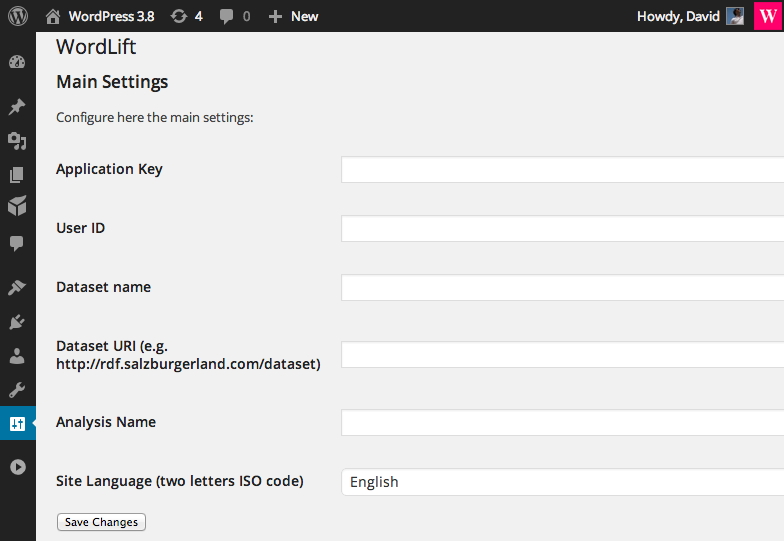
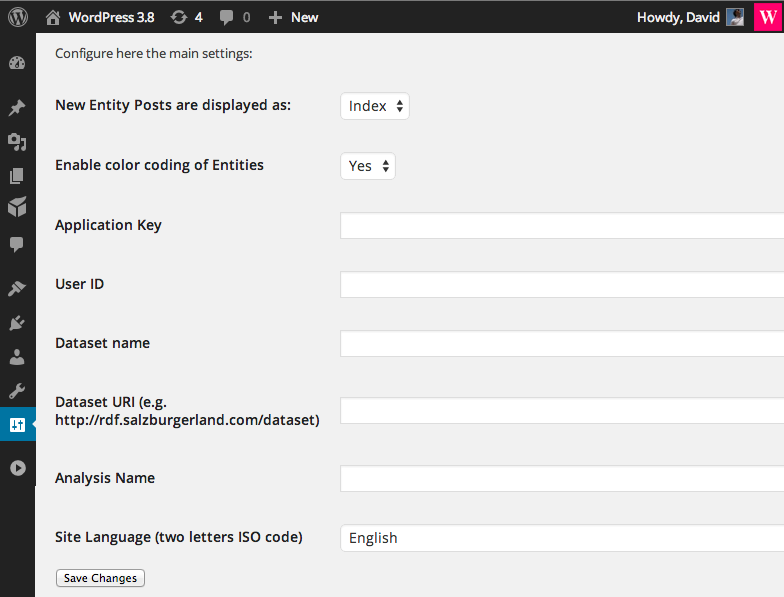
update configuration settings

diff --git a/docs/getting-started.rst b/docs/getting-started.rst
@@ -50,6 +50,13 @@ From this screen you can set the following settings:
 
 .. image:: /images/wordlift-settings-screen.png
 
+New Entity Posts displayed as
+    If *index* new Entity Posts by default are displayed as an index of posts referencing that entity.
+    If *page* new Entity Posts by default are displayed as a page with the entity image and description.
+
+Enable color coding of entities
+    If enabled, entities in post content are highlighted on the front-end web.
+
 Application Key
     A *unique key* which uniquely identifies your blog.
 
